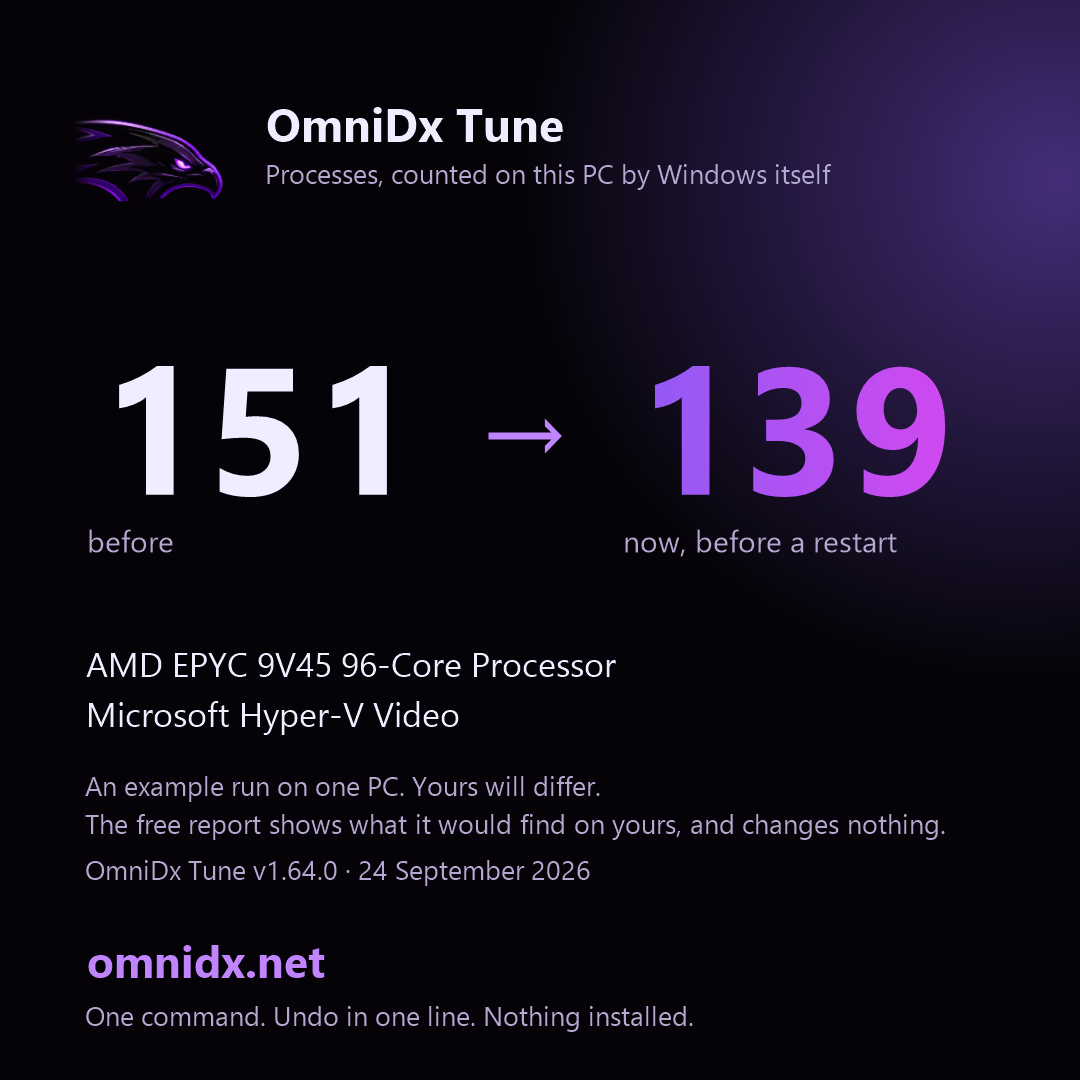
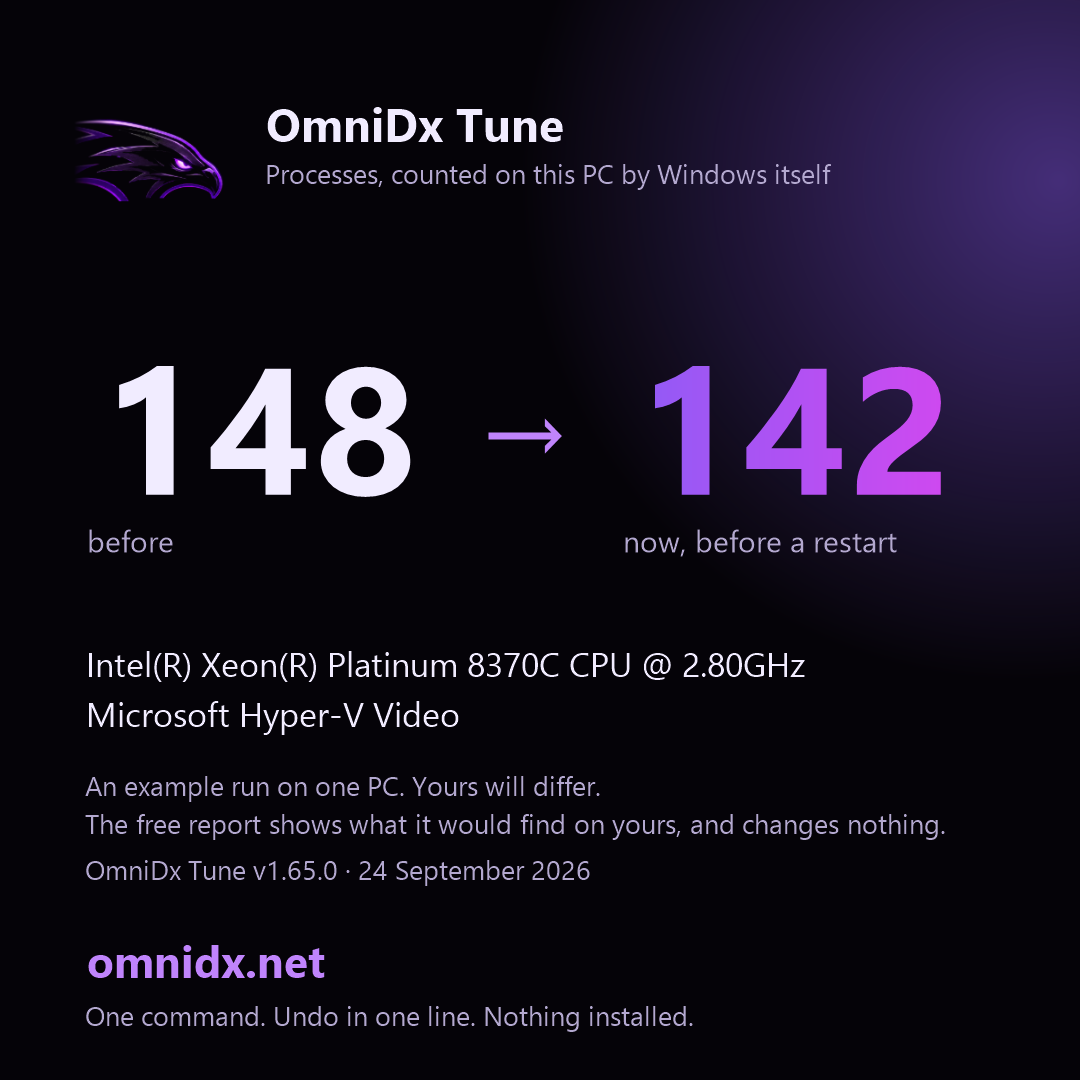
Windows check: the app window, the numbers, the log, and the script this run verified

diff --git a/studio/assets/ci-report.html b/studio/assets/ci-report.html
@@ -1,5 +1,5 @@
 <!doctype html><html lang="en"><head><meta charset="utf-8"><meta name="viewport" content="width=device-width,initial-scale=1">
-<title>OmniDx Tune report - 2026-09-24_10-52-41</title>
+<title>OmniDx Tune report - 2026-09-24_11-03-35</title>
 <style>
 body{margin:0;background:#050308;color:#f1ecff;font:15px/1.6 -apple-system,'Segoe UI',Roboto,system-ui,sans-serif}
 main{max-width:860px;margin:0 auto;padding:36px 20px 80px}
@@ -17,46 +17,99 @@ details{margin:10px 0;background:#0e0a17;border:1px solid #2a1f45;border-radius:
 details pre{font:12.5px/1.5 ui-monospace,Consolas,monospace;color:#b3a8cf;overflow:auto;max-height:420px;margin:10px 0 4px}
 .bios ul{list-style:none;padding-left:2px}.bios li{margin:8px 0;color:#f1ecff}.bios{background:#0e0a17;border:1px solid #2a1f45;border-radius:14px;padding:6px 18px}
 </style></head><body><main>
-<h1><img src="https://omnidx.net/studio/assets/icons/icon-192.png" alt="" width="44" height="44" style="vertical-align:middle;margin-right:10px" onerror="this.remove()">OmniDx Tune <span class="muted" style="font-size:16px">v1.64.0</span></h1>
-<p class="sub">Thursday, September 24, 2026 10:54 AM &middot; AMD EPYC 9V45 96-Core Processor &middot; Microsoft Hyper-V Video &middot; 16 GB &middot; Microsoft Corporation Virtual Machine</p>
-<div class="big"><div><b>151</b><span>processes before</span></div><div><b>139</b><span>now, before a restart</span></div><div><b>~70</b><span>target for this PC after a restart</span></div></div>
+<h1><img src="https://omnidx.net/studio/assets/icons/icon-192.png" alt="" width="44" height="44" style="vertical-align:middle;margin-right:10px" onerror="this.remove()">OmniDx Tune <span class="muted" style="font-size:16px">v1.65.0</span></h1>
+<p class="sub">Thursday, September 24, 2026 11:04 AM &middot; Intel(R) Xeon(R) Platinum 8370C CPU @ 2.80GHz &middot; Microsoft Hyper-V Video &middot; 16 GB &middot; Microsoft Corporation Virtual Machine</p>
+<div class="big"><div><b>148</b><span>processes before</span></div><div><b>142</b><span>now, before a restart</span></div><div><b>~70</b><span>target for this PC after a restart</span></div></div>
 <p class='muted'>The card, for posting (the same numbers, on one picture): <code>ci-card.png</code></p><img src='ci-card.png' alt='Before and after, on a card' style='max-width:340px;width:100%;border-radius:14px;border:1px solid #2a1f45'>
 <p class="muted">Many of the "now" processes are only waiting to be stopped. The number after a restart is the one that counts; <code>C:\OmniDx\after-restart.txt</code> gets it at your next sign-in. Kept cut: a task at each sign-in puts back what a Windows update turns on; undo removes it.</p>
 <h2>Next steps</h2><ol><li>Restart. The services told to stop are still unwinding until you do, and the after-restart count lands in C:\OmniDx\after-restart.txt at your next sign-in, with the boot time of that start next to the one from before the tune.</li><li>BIOS: items 1 to 3 (memory profile, Re-Size BAR, CSM). Ten minutes, and the memory profile alone is the biggest free gain any PC has.</li><li>GPU control panel: low latency mode, power management and V-Sync, from the list below. Two minutes.</li><li>Launchers and overlays: the list below names the one or two settings in each that matter; the overlays are the usual cause of a stutter that &quot;came from nowhere&quot;.</li><li>Any time: $env:OMNIDX_MODE=&#39;status&#39;; irm omnidx.net/go.ps1 | iex shows what is still in place; undo is one line, and it is in this report.</li></ol>
-<h2>Before and after</h2><table><tr><th></th><th>Before</th><th>Now</th></tr><tr><td>Processes</td><td>151</td><td>139</td></tr><tr><td>Threads</td><td>1553</td><td>1486</td></tr><tr><td>Handles</td><td>51428</td><td>47901</td></tr><tr><td>Memory in use</td><td>2818 MB</td><td>2885 MB</td></tr><tr><td>Idle CPU</td><td>0.9%</td><td>1.1%</td></tr><tr><td>DPC time</td><td>0%</td><td>0%</td></tr></table>
-<h2>Gone, by name</h2><p class='muted'>Running before, not running now: MoUsoCoreWorker, spoolsv</p>
-<details><summary>Every process, before (60 names)</summary><pre>svchost                                  x81     1,232 MB
-conhost                                  x4         34 MB
-taskhostw                                x3         95 MB
-WmiPrvSE                                 x3         75 MB
+<h2>Before and after</h2><table><tr><th></th><th>Before</th><th>Now</th></tr><tr><td>Processes</td><td>148</td><td>142</td></tr><tr><td>Threads</td><td>1545</td><td>1545</td></tr><tr><td>Handles</td><td>50899</td><td>49286</td></tr><tr><td>Memory in use</td><td>2928 MB</td><td>3030 MB</td></tr><tr><td>Idle CPU</td><td>2.1%</td><td>4.7%</td></tr><tr><td>DPC time</td><td>0%</td><td>0%</td></tr></table>
+<h2>Gone, by name</h2><p class='muted'>Running before, not running now: spoolsv</p>
+<details><summary>Every process, before (55 names)</summary><pre>svchost                                  x83     1,266 MB
+conhost                                  x4         33 MB
+taskhostw                                x3         62 MB
+WmiPrvSE                                 x3         63 MB
 csrss                                    x2         14 MB
 fontdrvhost                              x2         11 MB
-notepad                                  x2         58 MB
+notepad                                  x2         59 MB
 SMSvcHost                                x2         50 MB
 AzureArcSysTray                          x1         19 MB
-backgroundTaskHost                       x1         15 MB
 ctfmon                                   x1         25 MB
-DefenderSessionHelper                    x1          6 MB
 dockerd                                  x1         46 MB
 dwm                                      x1         76 MB
 explorer                                 x1        162 MB
-hosted-compute-agent                     x1         19 MB
+hosted-compute-agent                     x1         22 MB
+Idle                                     x1          0 MB
+LsaIso                                   x1          4 MB
+lsass                                    x1         31 MB
+MpDefenderCoreService                    x1         30 MB
+mqsvc                                    x1         19 MB
+msdtc                                    x1         14 MB
+MsMpEng                                  x1        201 MB
+node                                     x1         43 MB
+OpenConsole                              x1         14 MB
+powershell                               x1        260 MB
+provjobd.exe3669544302                   x1         36 MB
+Registry                                 x1         32 MB
+Runner.Listener                          x1         71 MB
+Runner.Worker                            x1        112 MB
+RuntimeBroker                            x1         49 MB
+SearchHost                               x1        113 MB
+Secure System                            x1         52 MB
+SecurityHealthService                    x1         12 MB
+ServiceFabricLocalClusterManager         x1         36 MB
+services                                 x1         12 MB
+ShellHost                                x1         42 MB
+sihost                                   x1         43 MB
+smartscreen                              x1         12 MB
+smss                                     x1          2 MB
+spoolsv                                  x1         22 MB
+sqlwriter                                x1         11 MB
+sshd                                     x1          9 MB
+StartMenuExperienceHost                  x1        133 MB
+System                                   x1          0 MB
+TiWorker                                 x1         29 MB
+TrustedInstaller                         x1         10 MB
+UserOOBEBroker                           x1         11 MB
+vmcompute                                x1         10 MB
+vmms                                     x1         33 MB
+WaAppAgent                               x1         86 MB
+WaSecAgentProv                           x1          5 MB
+WindowsAzureGuestAgent                   x1         70 MB
+WindowsTerminal                          x1         85 MB
+wininit                                  x1          9 MB
+winlogon                                 x1         13 MB
+wslservice                               x1         28 MB</pre></details><details><summary>Every process, after (58 names)</summary><pre>svchost                                  x73     1,104 MB
+conhost                                  x4         33 MB
+taskhostw                                x3         85 MB
+WmiPrvSE                                 x3         81 MB
+csrss                                    x2         14 MB
+fontdrvhost                              x2         11 MB
+notepad                                  x2         59 MB
+RuntimeBroker                            x2         57 MB
+SMSvcHost                                x2         50 MB
+AzureArcSysTray                          x1         19 MB
+ctfmon                                   x1         25 MB
+dllhost                                  x1         13 MB
+dockerd                                  x1         46 MB
+dwm                                      x1         76 MB
+explorer                                 x1        160 MB
+hosted-compute-agent                     x1         21 MB
 Idle                                     x1          0 MB
 LsaIso                                   x1          4 MB
 lsass                                    x1         31 MB
 MoUsoCoreWorker                          x1         23 MB
-MpDefenderCoreService                    x1         29 MB
+MpDefenderCoreService                    x1         30 MB
 mqsvc                                    x1         19 MB
 msdtc                                    x1         14 MB
-MsMpEng                                  x1        163 MB
-node                                     x1         43 MB
+MsMpEng                                  x1        200 MB
+node                                     x1         42 MB
 OpenConsole                              x1         14 MB
-powershell                               x1        165 MB
-provjobd.exe1250245543                   x1         35 MB
-Registry                                 x1         79 MB
-Runner.Listener                          x1         61 MB
-Runner.Worker                            x1         94 MB
-RuntimeBroker                            x1         47 MB
+powershell                               x1        217 MB
+provjobd.exe3669544302                   x1         35 MB
+Registry                                 x1         84 MB
+Runner.Listener                          x1         71 MB
+Runner.Worker                            x1        110 MB
 SearchHost                               x1        109 MB
 Secure System                            x1         52 MB
 SecurityHealthService                    x1         12 MB
@@ -66,92 +119,33 @@ ShellHost                                x1         42 MB
 sihost                                   x1         42 MB
 smartscreen                              x1         12 MB
 smss                                     x1          2 MB
-spoolsv                                  x1         22 MB
-sqlwriter                                x1         11 MB
-sshd                                     x1          9 MB
-StartMenuExperienceHost                  x1        130 MB
-System                                   x1          0 MB
-SystemPropertiesPerformance              x1         14 MB
-TiWorker                                 x1         32 MB
-TrustedInstaller                         x1         10 MB
-UserOOBEBroker                           x1         11 MB
-vmcompute                                x1         11 MB
-vmms                                     x1         34 MB
-WaAppAgent                               x1         84 MB
-WaSecAgentProv                           x1          5 MB
-WindowsAzureGuestAgent                   x1         70 MB
-WindowsTerminal                          x1         85 MB
-wininit                                  x1          9 MB
-winlogon                                 x1         13 MB
-wslservice                               x1         27 MB
-WUDFHost                                 x1         12 MB</pre></details><details><summary>Every process, after (59 names)</summary><pre>svchost                                  x70     1,075 MB
-conhost                                  x4         33 MB
-taskhostw                                x3         93 MB
-WmiPrvSE                                 x3         78 MB
-csrss                                    x2         14 MB
-fontdrvhost                              x2         11 MB
-notepad                                  x2         49 MB
-SMSvcHost                                x2         50 MB
-AzureArcSysTray                          x1         19 MB
-backgroundTaskHost                       x1         15 MB
-ctfmon                                   x1         31 MB
-DefenderSessionHelper                    x1          6 MB
-dllhost                                  x1         13 MB
-dockerd                                  x1         46 MB
-dwm                                      x1         76 MB
-explorer                                 x1        159 MB
-hosted-compute-agent                     x1         18 MB
-Idle                                     x1          0 MB
-LsaIso                                   x1          4 MB
-lsass                                    x1         31 MB
-MpDefenderCoreService                    x1         29 MB
-mqsvc                                    x1         19 MB
-msdtc                                    x1         14 MB
-MsMpEng                                  x1        163 MB
-node                                     x1         41 MB
-OpenConsole                              x1         14 MB
-powershell                               x1        209 MB
-provjobd.exe1250245543                   x1         26 MB
-Registry                                 x1         65 MB
-Runner.Listener                          x1         50 MB
-Runner.Worker                            x1         85 MB
-RuntimeBroker                            x1         47 MB
-SearchHost                               x1        109 MB
-Secure System                            x1         52 MB
-SecurityHealthService                    x1         12 MB
-ServiceFabricLocalClusterManager         x1         36 MB
-services                                 x1         12 MB
-ShellHost                                x1         42 MB
-sihost                                   x1         42 MB
-smartscreen                              x1         13 MB
-smss                                     x1          2 MB
+sppsvc                                   x1         16 MB
 sqlwriter                                x1         11 MB
 sshd                                     x1          9 MB
 StartMenuExperienceHost                  x1        131 MB
 System                                   x1          0 MB
-SystemPropertiesPerformance              x1         14 MB
-TiWorker                                 x1         41 MB
+TiWorker                                 x1         50 MB
 TrustedInstaller                         x1         10 MB
 UserOOBEBroker                           x1         11 MB
-vmcompute                                x1         11 MB
-vmms                                     x1         34 MB
-WaAppAgent                               x1         84 MB
+vmcompute                                x1         10 MB
+vmms                                     x1         33 MB
+WaAppAgent                               x1         86 MB
 WaSecAgentProv                           x1          5 MB
 WindowsAzureGuestAgent                   x1         70 MB
 WindowsTerminal                          x1         85 MB
-wininit                                  x1          9 MB
+wininit                                  x1          8 MB
 winlogon                                 x1         13 MB
-wslservice                               x1         27 MB
-WUDFHost                                 x1         12 MB</pre></details>
+WMIADAP                                  x1         11 MB
+wslservice                               x1         28 MB</pre></details>
 <h2>Kept, and why</h2><ul><li>Defender, the firewall, Windows Update, audio, networking: always</li><li>Themes: Windows 10 falls back to the classic look without it</li><li>vmicguestinterface: this is a virtual machine</li><li>vmicheartbeat: this is a virtual machine</li><li>vmickvpexchange: this is a virtual machine</li><li>vmicrdv: this is a virtual machine</li><li>vmicshutdown: this is a virtual machine</li><li>vmictimesync: this is a virtual machine</li><li>vmicvmsession: this is a virtual machine</li><li>vmicvss: this is a virtual machine</li></ul>
 <h2>Warnings (3)</h2><div class="warn"><ul><li>The GPU driver dates from Jun 2006. A current driver is worth more than most tweaks.</li><li>This looks like a virtual machine. The tune will run, but the numbers mean little here.</li><li>Could not make a restore point (This functionality is not supported on this operating system.). The undo script still records everything.</li></ul></div>
-<h2>BIOS checklist for Microsoft Corporation Virtual Machine</h2><div class="bios"><ul><li>How to get in: restart, then press Del or F2 while the logo shows.</li><li>Where things are: the Advanced / Overclocking pages for memory, the PCI or Chipset page for Above 4G / Re-Size BAR, the Boot page for CSM, the Security page for TPM and Secure Boot.</li><li>1. Memory profile: enable EXPO (or DOCP / A-XMP on older boards). Your RAM is running at the slow default until you do; this is the single biggest free gain on any PC. Pick the profile matching the speed printed on the sticks.</li><li>2. Re-Size BAR / Smart Access Memory: set Above 4G Decoding = Enabled, then Re-Size BAR Support = Auto/Enabled. Needs CSM off (next line). Worth 5-15% in many games on RTX 30/40/50 and RX 6000+.</li><li>3. CSM (Compatibility Support Module): Disabled. You already boot UEFI, so nothing depends on it, and Re-Size BAR needs it off.</li><li>4. Secure Boot: Enabled. Windows 11 and Vanguard expect it; on 10 it costs nothing. Set OS Type / Secure Boot Mode to Windows UEFI if asked.</li><li>5. TPM: not detected. Enable AMD fTPM (AMD) or Intel PTT (Intel) under Security / Trusted Computing. VALORANT on Windows 11 will not run without it.</li><li>6. Precision Boost Overdrive: Enabled (or Advanced with the Curve Optimizer at a modest negative offset like -15 all-core if you know your cooler). Never a positive voltage offset.</li><li>7. Global C-states / package C-states: Auto is fine. Disabling them buys nothing measurable in games and raises idle heat.</li><li>8. Fast Boot: Enabled. Full Screen Logo / Boot Logo: Disabled (a second off every boot).</li><li>9. Fan curves: set the CPU fan to reach 100% by 80 C and the case fans to a steady ramp. Sustained boost needs airflow more than anything.</li><li>10. Onboard devices you do not use: serial port, Wi-Fi/Bluetooth if wired, onboard audio if you use USB audio, RGB controllers. Each one removed is an interrupt source gone.</li><li>11. HPET: leave at default. The &#39;disable HPET&#39; tweak is from 2013 and hurts more than it helps on modern Windows.</li><li>12. Virtualisation (SVM / VT-x): leave on if you use WSL, Docker, an emulator, or play VALORANT or on FACEIT (their anti-cheat needs it, with IOMMU); otherwise off saves a little scheduling overhead.</li><li>After saving: Windows will boot normally. If it does not (rare, usually CSM), go back in and re-enable the last thing you changed.</li><li>Do not update the BIOS unless the vendor&#39;s notes mention a fix for your exact problem; a failed flash is the one thing here that cannot be undone from Windows.</li></ul></div>
+<h2>BIOS checklist for Microsoft Corporation Virtual Machine</h2><div class="bios"><ul><li>How to get in: restart, then press Del or F2 while the logo shows.</li><li>Where things are: the Advanced / Overclocking pages for memory, the PCI or Chipset page for Above 4G / Re-Size BAR, the Boot page for CSM, the Security page for TPM and Secure Boot.</li><li>1. Memory profile: enable XMP. Your RAM is running at the slow default until you do; this is the single biggest free gain on any PC. Pick the profile matching the speed printed on the sticks.</li><li>2. Re-Size BAR / Smart Access Memory: set Above 4G Decoding = Enabled, then Re-Size BAR Support = Auto/Enabled. Needs CSM off (next line). Worth 5-15% in many games on RTX 30/40/50 and RX 6000+.</li><li>3. CSM (Compatibility Support Module): Disabled. You already boot UEFI, so nothing depends on it, and Re-Size BAR needs it off.</li><li>4. Secure Boot: Enabled. Windows 11 and Vanguard expect it; on 10 it costs nothing. Set OS Type / Secure Boot Mode to Windows UEFI if asked.</li><li>5. TPM: not detected. Enable AMD fTPM (AMD) or Intel PTT (Intel) under Security / Trusted Computing. VALORANT on Windows 11 will not run without it.</li><li>6. Intel: leave MultiCore Enhancement at Auto; set the long and short power limits (PL1/PL2) to the chip&#39;s rated maximum if the board runs them lower. Do not touch voltages.</li><li>7. Global C-states / package C-states: Auto is fine. Disabling them buys nothing measurable in games and raises idle heat.</li><li>8. Fast Boot: Enabled. Full Screen Logo / Boot Logo: Disabled (a second off every boot).</li><li>9. Fan curves: set the CPU fan to reach 100% by 80 C and the case fans to a steady ramp. Sustained boost needs airflow more than anything.</li><li>10. Onboard devices you do not use: serial port, Wi-Fi/Bluetooth if wired, onboard audio if you use USB audio, RGB controllers. Each one removed is an interrupt source gone.</li><li>11. HPET: leave at default. The &#39;disable HPET&#39; tweak is from 2013 and hurts more than it helps on modern Windows.</li><li>12. Virtualisation (SVM / VT-x): leave on if you use WSL, Docker, an emulator, or play VALORANT or on FACEIT (their anti-cheat needs it, with IOMMU); otherwise off saves a little scheduling overhead.</li><li>After saving: Windows will boot normally. If it does not (rare, usually CSM), go back in and re-enable the last thing you changed.</li><li>Do not update the BIOS unless the vendor&#39;s notes mention a fix for your exact problem; a failed flash is the one thing here that cannot be undone from Windows.</li></ul></div>
 <h2>GPU control panel</h2><ul><li>GPU not identified; use the vendor control panel to set low-latency mode on, power management to maximum performance and V-Sync off.</li></ul>
 <h2>Launchers, overlays and helper apps</h2><ul><li>None of the usual launchers, overlays or peripheral suites found. The same notes apply the day you install one; run the command again and they appear here.</li></ul>
 <h2>Left by other tools</h2><p class="muted">The tune changes none of these; it names them, with the way back.</p><ul><li>Nothing found: no other tool has left Defender, Windows Update, SmartScreen, User Account Control or the CPU mitigations switched off on this PC.</li></ul>
 <h2>Per game</h2><p class='muted'>Not found on this PC (the same profile applies if you install them): Fortnite, VALORANT, Counter-Strike 2, Marvel Rivals, Apex Legends, Call of Duty (Warzone / MW), Overwatch 2, Rainbow Six Siege, Rocket League, Minecraft, Roblox, League of Legends, GTA V / Online, Rust, Escape from Tarkov, PUBG, The Finals, Dota 2, Battlefield 6, Deadlock, Delta Force, ARC Raiders, Helldivers 2, Warframe, Destiny 2, Halo Infinite, Dead by Daylight, Hunt: Showdown 1896, War Thunder, World of Warcraft, Squad, Battlefield 2042, EA Sports FC 26, NBA 2K26, Palworld, Path of Exile 2, Diablo IV, Monster Hunter Wilds, Elden Ring / Nightreign, Cyberpunk 2077, Baldur&#39;s Gate 3, Star Citizen, DayZ, Arma Reforger, Hell Let Loose, Genshin Impact, Ready or Not, Final Fantasy XIV, STALKER 2, Sea of Thieves</p>
-<h2>What was done</h2><h4>Safety first</h4><div class='did'>Registry and service list backed up to C:\OmniDx\backup\2026-09-24_10-52-41</div><div class='did'>undo.ps1 written to C:\OmniDx\undo</div><h4>Startup apps</h4><div class='did'>off: AzureArcSetup</div><div class='did'>off: Service Fabric Local Cluster Manager (Startup folder)</div><h4>Services</h4><div class='did'>dmwappushservice -&gt; disabled  (telemetry push)</div><div class='did'>WerSvc -&gt; disabled  (error reporting)</div><div class='did'>wercplsupport -&gt; disabled  (error reporting)</div><div class='did'>PcaSvc -&gt; disabled  (compatibility assistant)</div><div class='did'>lfsvc -&gt; disabled  (geolocation)</div><div class='did'>RemoteRegistry -&gt; disabled  (remote registry)</div><div class='did'>WMPNetworkSvc -&gt; disabled  (media sharing)</div><div class='did'>TrkWks -&gt; disabled  (link tracking)</div><div class='did'>WalletService -&gt; disabled  (wallet)</div><div class='did'>wisvc -&gt; disabled  (insider program)</div><div class='did'>SEMgrSvc -&gt; disabled  (payments and NFC)</div><div class='did'>TapiSrv -&gt; disabled  (telephony)</div><div class='did'>SharedAccess -&gt; disabled  (internet connection sharing)</div><div class='did'>edgeupdate -&gt; manual  (Edge updater (runs on demand))</div><div class='did'>WbioSrvc -&gt; disabled  (biometrics)</div><div class='did'>SysMain already disabled; left that way</div><div class='did'>WSearch already disabled; left that way</div><div class='did'>Spooler -&gt; disabled  (print spooler)</div><div class='did'>bthserv -&gt; disabled  (bluetooth)</div><div class='did'>WlanSvc -&gt; disabled  (wi-fi)</div><div class='did'>CDPSvc -&gt; manual  (connected devices)</div><div class='did'>CDPUserSvc already disabled; left that way</div><div class='did'>OneSyncSvc already disabled; left that way</div><div class='did'>PimIndexMaintenanceSvc already disabled; left that way</div><div class='did'>UnistoreSvc already disabled; left that way</div><div class='did'>UserDataSvc already disabled; left that way</div><div class='did'>SSDPSRV already disabled; left that way</div><div class='did'>upnphost already disabled; left that way</div><div class='did'>DPS -&gt; manual  (diagnostic policy)</div><div class='did'>SCardSvr -&gt; disabled  (smart card)</div><div class='did'>ScDeviceEnum -&gt; disabled  (smart card)</div><div class='did'>CertPropSvc -&gt; disabled  (smart card)</div><div class='did'>iphlpsvc -&gt; manual  (ipv6 tunnels)</div><div class='did'>cbdhsvc -&gt; manual  (clipboard history)</div><div class='did'>WpnService -&gt; manual  (push notifications)</div><div class='did'>WpnUserService -&gt; manual  (push notifications)</div><div class='did'>SNMPTRAP -&gt; disabled  (SNMP traps)</div><div class='did'>workfolderssvc -&gt; disabled  (Work Folders sync)</div><h4>Scheduled tasks</h4><div class='did'>PcaPatchDbTask</div><div class='did'>CreateObjectTask</div><div class='did'>Device</div><div class='did'>Device User</div><div class='did'>LoginCheck</div><div class='did'>WindowsActionDialog</div><div class='did'>OobeDiscovery</div><div class='did'>Diagnostics</div><div class='did'>UsageDataFlushing</div><div class='did'>UsageDataReporting</div><div class='did'>Registration</div><div class='did'>IndexerAutomaticMaintenance</div><div class='did'>Storage Tiers Management Initialization</div><div class='did'>UPnPHostConfig</div><div class='did'>ResolutionHost</div><div class='did'>UpdateLibrary</div><div class='did'>Work Folders Logon Synchronization</div><div class='did'>Work Folders Maintenance Work</div><h4>Preinstalled apps</h4><div class='did'>Microsoft.WindowsFeedbackHub</div><h4>Debloat</h4><div class='did'>removed Steps Recorder (screenshots every click, retired by Microsoft)</div><div class='did'>removed the 2009 Windows Media Player (the Store one stays)</div><div class='did'>removed Math Input Panel</div><div class='did'>removed Internet Explorer 11</div><div class='did'>off: Work Folders (corporate sync)</div><div class='did'>Edge: shopping assistant, recommendations, Spotlight, feedback prompts and reporting off</div><div class='did'>Kept gone: consumer features, suggested apps, account nags and the &#39;finish setting up&#39; screen are off by policy</div><h4>Telemetry, background activity, the shell</h4><div class='did'>Telemetry, the advertising id, activity history, suggestions, Bing in Start, Recall and Edge&#39;s reporting off; background apps off; widgets, news, Copilot and Cortana off; Game DVR off, Game Mode on; the classic right-click menu on 11</div><h4>System tuning</h4><div class='did'>NTFS last-access stamps off</div><div class='did'>NTFS allowed more memory for its cache</div><div class='did'>Defender&#39;s scheduled scans already capped at 5% of the CPU, lower than the tune&#39;s 25%: left as it is</div><h4>The OmniDx power plan</h4><div class='did'>2 plan setting(s) this PC does not have were skipped.</div><div class='did'>OmniDx plan created and active: CPU 100/100, boost aggressive, energy preference on performance, no core parking, no throttle states on a desktop, PCIe, USB and Wi-Fi power saving off, no sleep on mains.</div><h4>Network</h4><div class='did'>TCP: autotuning normal, ECN and timestamps off, receive-side scaling on, segment coalescing off, CTCP.</div><div class='did'>Ethernet 3: Nagle off, power saving off</div><div class='did'>Ethernet 4: Nagle off, power saving off</div><h4>Discord, Spotify, browsers</h4><div class='did'>Chrome: no background mode, hardware acceleration on</div><div class='did'>Edge: no startup boost, no background mode, hardware acceleration on</div><h4>Game profiles</h4><div class='did'>No listed game found on the usual drives; the CPU-priority profiles are in place for when one is installed.</div><h4>Cleanup</h4><div class='did'>Temp files, the Windows Update download cache and the peer-to-peer update cache cleared: about 305 MB back.</div><h4>Keeping it cut</h4><div class='did'>Task &#39;OmniDx keep&#39; runs three minutes after sign-in, puts back whatever an update turned on, notes that start&#39;s boot time and writes card-after-restart.png with that start&#39;s count. Log: C:\OmniDx\keep-log.txt. Undo removes it.</div>
-<h2>Undo</h2><p>Administrator PowerShell: <code>powershell -ExecutionPolicy Bypass -File C:\OmniDx\undo\undo.ps1</code><br>No restore point was made on this run (see the warnings); the undo script is the way back.<br>Changes recorded in <code>C:\OmniDx\undo\changes-2026-09-24_10-52-41.json</code>.</p>
+<h2>What was done</h2><h4>Safety first</h4><div class='did'>Registry and service list backed up to C:\OmniDx\backup\2026-09-24_11-03-35</div><div class='did'>undo.ps1 written to C:\OmniDx\undo</div><h4>Startup apps</h4><div class='did'>off: AzureArcSetup</div><div class='did'>off: Service Fabric Local Cluster Manager (Startup folder)</div><h4>Services</h4><div class='did'>dmwappushservice -&gt; disabled  (telemetry push)</div><div class='did'>WerSvc -&gt; disabled  (error reporting)</div><div class='did'>wercplsupport -&gt; disabled  (error reporting)</div><div class='did'>PcaSvc -&gt; disabled  (compatibility assistant)</div><div class='did'>lfsvc -&gt; disabled  (geolocation)</div><div class='did'>RemoteRegistry -&gt; disabled  (remote registry)</div><div class='did'>WMPNetworkSvc -&gt; disabled  (media sharing)</div><div class='did'>TrkWks -&gt; disabled  (link tracking)</div><div class='did'>WalletService -&gt; disabled  (wallet)</div><div class='did'>wisvc -&gt; disabled  (insider program)</div><div class='did'>SEMgrSvc -&gt; disabled  (payments and NFC)</div><div class='did'>TapiSrv -&gt; disabled  (telephony)</div><div class='did'>SharedAccess -&gt; disabled  (internet connection sharing)</div><div class='did'>edgeupdate -&gt; manual  (Edge updater (runs on demand))</div><div class='did'>WbioSrvc -&gt; disabled  (biometrics)</div><div class='did'>SysMain already disabled; left that way</div><div class='did'>WSearch already disabled; left that way</div><div class='did'>Spooler -&gt; disabled  (print spooler)</div><div class='did'>bthserv -&gt; disabled  (bluetooth)</div><div class='did'>WlanSvc -&gt; disabled  (wi-fi)</div><div class='did'>CDPSvc -&gt; manual  (connected devices)</div><div class='did'>CDPUserSvc already disabled; left that way</div><div class='did'>OneSyncSvc already disabled; left that way</div><div class='did'>PimIndexMaintenanceSvc already disabled; left that way</div><div class='did'>UnistoreSvc already disabled; left that way</div><div class='did'>UserDataSvc already disabled; left that way</div><div class='did'>SSDPSRV already disabled; left that way</div><div class='did'>upnphost already disabled; left that way</div><div class='did'>DPS -&gt; manual  (diagnostic policy)</div><div class='did'>SCardSvr -&gt; disabled  (smart card)</div><div class='did'>ScDeviceEnum -&gt; disabled  (smart card)</div><div class='did'>CertPropSvc -&gt; disabled  (smart card)</div><div class='did'>iphlpsvc -&gt; manual  (ipv6 tunnels)</div><div class='did'>cbdhsvc -&gt; manual  (clipboard history)</div><div class='did'>WpnService -&gt; manual  (push notifications)</div><div class='did'>WpnUserService -&gt; manual  (push notifications)</div><div class='did'>SNMPTRAP -&gt; disabled  (SNMP traps)</div><div class='did'>workfolderssvc -&gt; disabled  (Work Folders sync)</div><h4>Scheduled tasks</h4><div class='did'>PcaPatchDbTask</div><div class='did'>CreateObjectTask</div><div class='did'>Device</div><div class='did'>Device User</div><div class='did'>LoginCheck</div><div class='did'>WindowsActionDialog</div><div class='did'>OobeDiscovery</div><div class='did'>Diagnostics</div><div class='did'>UsageDataFlushing</div><div class='did'>UsageDataReporting</div><div class='did'>Registration</div><div class='did'>IndexerAutomaticMaintenance</div><div class='did'>Storage Tiers Management Initialization</div><div class='did'>UPnPHostConfig</div><div class='did'>ResolutionHost</div><div class='did'>UpdateLibrary</div><div class='did'>Work Folders Logon Synchronization</div><div class='did'>Work Folders Maintenance Work</div><h4>Preinstalled apps</h4><div class='did'>Microsoft.WindowsFeedbackHub</div><h4>Debloat</h4><div class='did'>removed Steps Recorder (screenshots every click, retired by Microsoft)</div><div class='did'>removed the 2009 Windows Media Player (the Store one stays)</div><div class='did'>removed Math Input Panel</div><div class='did'>removed Internet Explorer 11</div><div class='did'>off: Work Folders (corporate sync)</div><div class='did'>Edge: shopping assistant, recommendations, Spotlight, feedback prompts and reporting off</div><div class='did'>Kept gone: consumer features, suggested apps, account nags and the &#39;finish setting up&#39; screen are off by policy</div><h4>Telemetry, background activity, the shell</h4><div class='did'>Telemetry, the advertising id, activity history, suggestions, Bing in Start, Recall and Edge&#39;s reporting off; background apps off; widgets, news, Copilot and Cortana off; Game DVR off, Game Mode on; the classic right-click menu on 11</div><h4>System tuning</h4><div class='did'>NTFS last-access stamps off</div><div class='did'>NTFS allowed more memory for its cache</div><div class='did'>Defender&#39;s scheduled scans already capped at 5% of the CPU, lower than the tune&#39;s 25%: left as it is</div><h4>The OmniDx power plan</h4><div class='did'>2 plan setting(s) this PC does not have were skipped.</div><div class='did'>OmniDx plan created and active: CPU 100/100, boost aggressive, energy preference on performance, no core parking, no throttle states on a desktop, PCIe, USB and Wi-Fi power saving off, no sleep on mains.</div><h4>Network</h4><div class='did'>TCP: autotuning normal, ECN and timestamps off, receive-side scaling on, segment coalescing off, CTCP.</div><div class='did'>Ethernet 4: Interrupt Moderation off</div><div class='did'>Ethernet 4: Nagle off, power saving off</div><div class='did'>Ethernet 3: Nagle off, power saving off</div><h4>Discord, Spotify, browsers</h4><div class='did'>Chrome: no background mode, hardware acceleration on</div><div class='did'>Edge: no startup boost, no background mode, hardware acceleration on</div><h4>Game profiles</h4><div class='did'>No listed game found on the usual drives; the CPU-priority profiles are in place for when one is installed.</div><h4>Cleanup</h4><div class='did'>Temp files, the Windows Update download cache and the peer-to-peer update cache cleared: about 374 MB back.</div><h4>Keeping it cut</h4><div class='did'>Task &#39;OmniDx keep&#39; runs three minutes after sign-in, puts back whatever an update turned on, notes that start&#39;s boot time and writes card-after-restart.png with that start&#39;s count. Log: C:\OmniDx\keep-log.txt. Undo removes it.</div>
+<h2>Undo</h2><p>Administrator PowerShell: <code>powershell -ExecutionPolicy Bypass -File C:\OmniDx\undo\undo.ps1</code><br>No restore point was made on this run (see the warnings); the undo script is the way back.<br>Changes recorded in <code>C:\OmniDx\undo\changes-2026-09-24_11-03-35.json</code>.</p>
 <h2>Status, any time</h2><p>What is still in place, what an update put back, the keep task and the after-restart count: <code>$env:OMNIDX_MODE='status'; irm omnidx.net/go.ps1 | iex</code><br><span class="muted">README.txt in C:\OmniDx says what each file there is.</span></p>
 <p class="muted" style="margin-top:40px">omnidx.net &middot; one payment, one PC, undo in one line.</p>
 </main></body></html>
